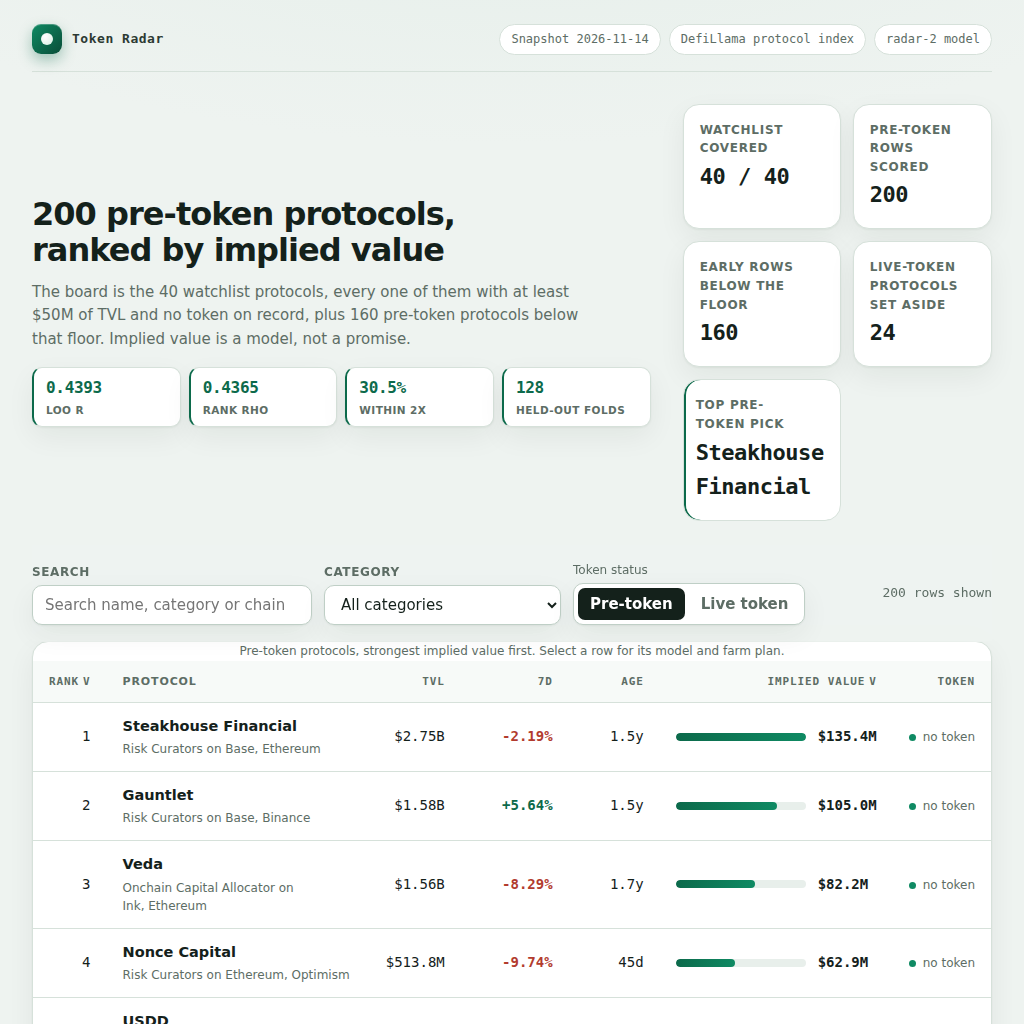
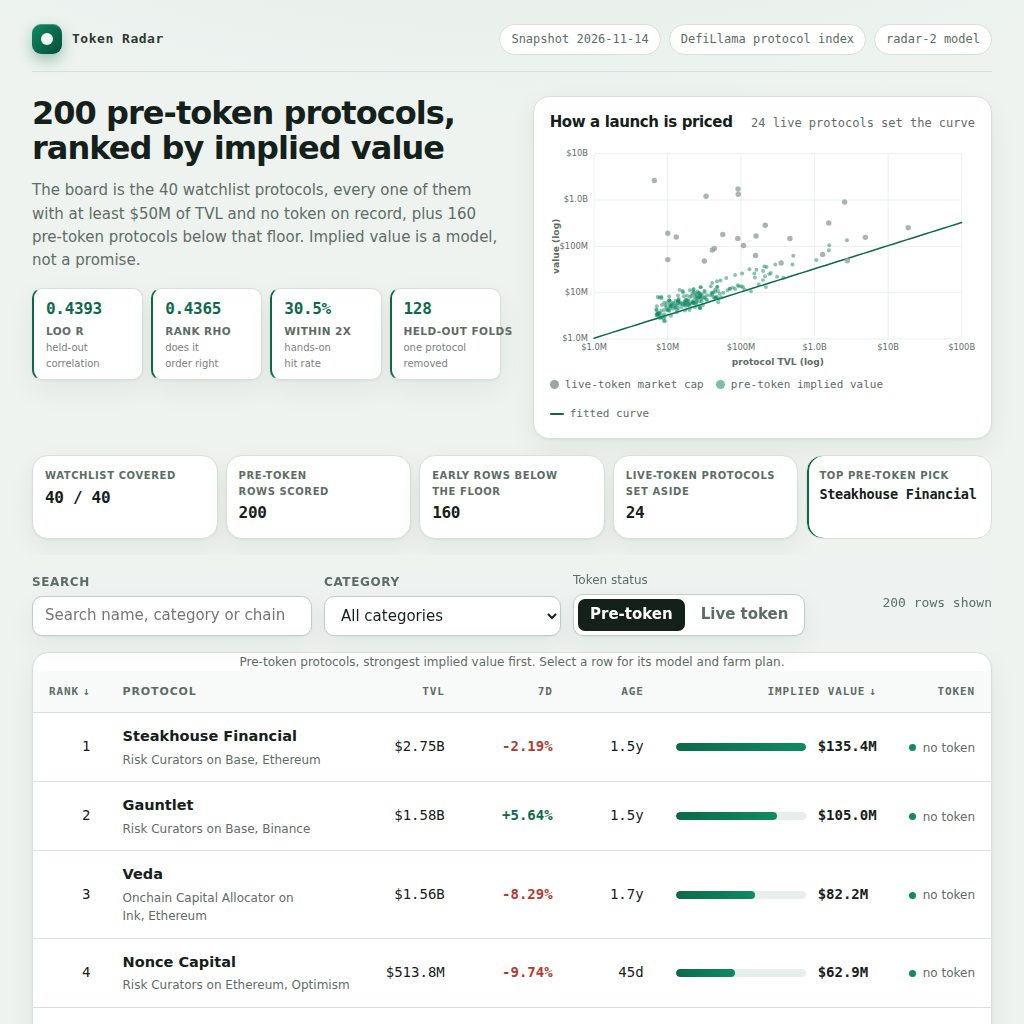
dashboard: lead with the pricing chart, the way every top-ten entry does
The board was the first thing on the page, so the judged image was a
table with no argument in it. All twenty leaders open with a picture of
the model: a log-log scatter of the calibration set with the fitted
curve and the implied values on the same axes. That chart now sits in
the hero beside the headline, drawn as inline SVG with no network, and
carries a legend naming the three series.

The stat tiles gained a plain-language gloss, because 0.4393 means
nothing to a reader who has not been told it is a held-out correlation.
The five KPI cards became one strip under the chart, and sort headers
use real arrows instead of a literal v.

diff --git a/dashboard/app.js b/dashboard/app.js
@@ -127,24 +127,33 @@
   function lede() {
     var v = DATA.validation;
     var proof = v ? el('div', { class: 'proof' },
-      el('span', { class: 'proof-item' }, el('b', { text: v.loo_r }), el('span', { text: 'LOO r' })),
-      el('span', { class: 'proof-item' }, el('b', { text: v.loo_rho }), el('span', { text: 'rank rho' })),
-      el('span', { class: 'proof-item' }, el('b', { text: v.within_2x + '%' }), el('span', { text: 'within 2x' })),
-      el('span', { class: 'proof-item' }, el('b', { text: '128' }), el('span', { text: 'held-out folds' }))
+      el('span', { class: 'proof-item' }, el('b', { text: v.loo_r }), el('span', { text: 'LOO r' }), el('i', { text: 'held-out correlation' })),
+      el('span', { class: 'proof-item' }, el('b', { text: v.loo_rho }), el('span', { text: 'rank rho' }), el('i', { text: 'does it order right' })),
+      el('span', { class: 'proof-item' }, el('b', { text: v.within_2x + '%' }), el('span', { text: 'within 2x' }), el('i', { text: 'hands-on hit rate' })),
+      el('span', { class: 'proof-item' }, el('b', { text: '128' }), el('span', { text: 'held-out folds' }), el('i', { text: 'one protocol removed' }))
     ) : null;
     return el('section', { class: 'lede' },
-      el('div', null,
+      el('div', { class: 'lede-copy' },
         el('h1', { text: DATA.board_size + ' pre-token protocols, ranked by implied value' }),
         el('p', { text: 'The board is the ' + DATA.watchlist_size + ' watchlist protocols, every one of them with at least $' + Math.round(DATA.floor_usd / 1e6) + 'M of TVL and no token on record, plus ' + DATA.early_size + ' pre-token protocols below that floor. Implied value is a model, not a promise.' }),
         proof
       ),
-      el('div', { class: 'facts' },
+      el('div', { class: 'lede-chart' }, pricingChart() || el('div', { class: 'facts' },
         el('div', { class: 'fact' }, el('span', { text: 'Watchlist covered' }), el('b', { text: DATA.watchlist_size + ' / ' + DATA.watchlist_size })),
         el('div', { class: 'fact' }, el('span', { text: 'Pre-token rows scored' }), el('b', { text: String(DATA.board_size) })),
         el('div', { class: 'fact' }, el('span', { text: 'Early rows below the floor' }), el('b', { text: String(DATA.early_size) })),
-        el('div', { class: 'fact' }, el('span', { text: 'Live-token protocols set aside' }), el('b', { text: String(DATA.live_size) })),
-        el('div', { class: 'fact fact-featured' }, el('span', { text: 'Top pre-token pick' }), el('b', { text: DATA.rows.length ? DATA.rows[0].name : 'n/a' }))
-      )
+        el('div', { class: 'fact' }, el('span', { text: 'Live-token protocols set aside' }), el('b', { text: String(DATA.live_size) }))
+      ))
+    );
+  }
+
+  function factStrip() {
+    return el('section', { class: 'fact-strip' },
+      el('div', { class: 'fact' }, el('span', { text: 'Watchlist covered' }), el('b', { text: DATA.watchlist_size + ' / ' + DATA.watchlist_size })),
+      el('div', { class: 'fact' }, el('span', { text: 'Pre-token rows scored' }), el('b', { text: String(DATA.board_size) })),
+      el('div', { class: 'fact' }, el('span', { text: 'Early rows below the floor' }), el('b', { text: String(DATA.early_size) })),
+      el('div', { class: 'fact' }, el('span', { text: 'Live-token protocols set aside' }), el('b', { text: String(DATA.live_size) })),
+      el('div', { class: 'fact fact-featured' }, el('span', { text: 'Top pre-token pick' }), el('b', { text: DATA.rows.length ? DATA.rows[0].name : 'n/a' }))
     );
   }
 
@@ -171,7 +180,7 @@
     return el('th', { scope: 'col', class: numeric ? 'num' : null },
       el('button', { type: 'button', onclick: function () { if (state.sort === key) state.dir = -state.dir; else { state.sort = key; state.dir = -1; } render(); } },
         label,
-        state.sort === key ? el('span', { 'aria-hidden': 'true', text: state.dir < 0 ? ' v' : ' ^' }) : null
+        state.sort === key ? el('span', { 'aria-hidden': 'true', text: state.dir < 0 ? ' \u2193' : ' \u2191' }) : null
       )
     );
   }
@@ -280,6 +289,104 @@
     );
   }
 
+  // The one picture the page leads with: every live-token protocol's real market cap against its TVL
+  // (the calibration set), the fitted curve over them, and the pre-token board's implied values on the
+  // same axes. Drawn as inline SVG so the page stays static and needs no network or canvas library.
+  function pricingChart() {
+    var comps = DATA.live.filter(function (r) { return r.mcap_usd && r.tvl_usd > 0; });
+    if (comps.length < 5) return null;
+    var W = 560, H = 300, PAD_L = 58, PAD_R = 18, PAD_T = 18, PAD_B = 38;
+    var iw = W - PAD_L - PAD_R, ih = H - PAD_T - PAD_B;
+    var pts = comps.map(function (r) { return [r.tvl_usd, r.mcap_usd]; });
+    var board = DATA.rows.map(function (r) { return [r.tvl_usd, r.implied_value_usd]; });
+    var xs = pts.concat(board).map(function (p) { return Math.log10(Math.max(p[0], 1)); });
+    var ys = pts.concat(board).map(function (p) { return Math.log10(Math.max(p[1], 1)); });
+    var x0 = Math.floor(Math.min.apply(null, xs)), x1 = Math.ceil(Math.max.apply(null, xs));
+    var y0 = Math.floor(Math.min.apply(null, ys)), y1 = Math.ceil(Math.max.apply(null, ys));
+    function sx(v) { return PAD_L + ((v - x0) / (x1 - x0 || 1)) * iw; }
+    function sy(v) { return PAD_T + ih - ((v - y0) / (y1 - y0 || 1)) * ih; }
+    function usd(v) {
+      var a = Math.abs(v);
+      if (a >= 1e9) return '$' + (v / 1e9).toFixed(v >= 1e10 ? 0 : 1) + 'B';
+      if (a >= 1e6) return '$' + (v / 1e6).toFixed(v >= 1e7 ? 0 : 1) + 'M';
+      if (a >= 1e3) return '$' + Math.round(v / 1e3) + 'K';
+      return '$' + Math.round(v);
+    }
+    var m = DATA.model;
+    // the fitted line: implied = tvl * boundedMultiple, with no growth or category adjustment
+    function fitLine(tvl) {
+      var lg = m.regression_intercept + m.regression_b_tvl * Math.log10(Math.max(tvl, 1));
+      var base = Math.pow(10, lg);
+      var mult = Math.min(m.multiple_cap, Math.max(m.multiple_floor, base / Math.max(tvl, 1)));
+      return tvl * mult;
+    }
+    var SVGNS = 'http' + '://www.w3.org/2000/svg';
+    function s(tag, attrs) {
+      var n = document.createElementNS(SVGNS, tag);
+      Object.keys(attrs || {}).forEach(function (k) { n.setAttribute(k, attrs[k]); });
+      return n;
+    }
+    var svg = s('svg', { viewBox: '0 0 ' + W + ' ' + H, width: '100%', height: 'auto', role: 'img',
+      'aria-label': 'Live-token market caps against TVL, with the fitted curve and the pre-token implied values' });
+    // grid + axis ticks
+    var xi, yi, lab, tk;
+    for (xi = x0; xi <= x1; xi++) {
+      tk = s('line', { x1: sx(xi), y1: PAD_T, x2: sx(xi), y2: PAD_T + ih, stroke: '#e2ece7', 'stroke-width': 1 });
+      svg.appendChild(tk);
+      lab = s('text', { x: sx(xi), y: H - PAD_B + 15, 'text-anchor': 'middle', fill: '#5d6d65', 'font-size': 11 });
+      lab.textContent = usd(Math.pow(10, xi));
+      svg.appendChild(lab);
+    }
+    for (yi = y0; yi <= y1; yi++) {
+      svg.appendChild(s('line', { x1: PAD_L, y1: sy(yi), x2: PAD_L + iw, y2: sy(yi), stroke: '#e2ece7', 'stroke-width': 1 }));
+      lab = s('text', { x: PAD_L - 8, y: sy(yi) + 3, 'text-anchor': 'end', fill: '#5d6d65', 'font-size': 11 });
+      lab.textContent = usd(Math.pow(10, yi));
+      svg.appendChild(lab);
+    }
+    // fitted curve
+    var d = '';
+    var steps = 60;
+    for (var i = 0; i <= steps; i++) {
+      var lgx = x0 + ((x1 - x0) * i) / steps;
+      var tvl = Math.pow(10, lgx);
+      var yy = Math.log10(Math.max(fitLine(tvl), 1));
+      if (yy < y0 - 1 || yy > y1 + 1) { if (d) { d += ''; } continue; }
+      d += (d ? ' L' : 'M') + sx(lgx).toFixed(1) + ' ' + sy(yy).toFixed(1);
+    }
+    if (d) svg.appendChild(s('path', { d: d, fill: 'none', stroke: '#0c6a4b', 'stroke-width': 2, 'stroke-linecap': 'round' }));
+    // calibration points: real market caps
+    pts.forEach(function (p) {
+      svg.appendChild(s('circle', { cx: sx(Math.log10(p[0])).toFixed(1), cy: sy(Math.log10(p[1])).toFixed(1), r: 3.6,
+        fill: '#9aa8a0', opacity: 0.85 }));
+    });
+    // the board's implied values
+    board.forEach(function (p) {
+      svg.appendChild(s('circle', { cx: sx(Math.log10(p[0])).toFixed(1), cy: sy(Math.log10(p[1])).toFixed(1), r: 2.6,
+        fill: '#0f8a63', opacity: 0.5 }));
+    });
+    // axis titles
+    var xl = s('text', { x: PAD_L + iw / 2, y: H - 4, 'text-anchor': 'middle', fill: '#5d6d65', 'font-size': 12, 'font-weight': 600 });
+    xl.textContent = 'protocol TVL (log)';
+    svg.appendChild(xl);
+    var yl = s('text', { x: 12, y: PAD_T + ih / 2, 'text-anchor': 'middle', fill: '#5d6d65', 'font-size': 12, 'font-weight': 600,
+      transform: 'rotate(-90 12 ' + (PAD_T + ih / 2) + ')' });
+    yl.textContent = 'value (log)';
+    svg.appendChild(yl);
+    return el('section', { class: 'panel chart-panel' },
+      el('div', { class: 'chart-head' },
+        el('h2', { text: 'How a launch is priced' }),
+        el('span', { class: 'chart-note', text: comps.length + ' live protocols set the curve' })
+      ),
+      svg,
+      el('div', { class: 'legend' },
+        el('span', { class: 'legend-item' }, el('i', { class: 'sw sw-comp' }), 'live-token market cap'),
+        el('span', { class: 'legend-item' }, el('i', { class: 'sw sw-board' }), 'pre-token implied value'),
+        el('span', { class: 'legend-item' }, el('i', { class: 'sw sw-line' }), 'fitted curve')
+      ),
+      el('p', { class: 'sub chart-caption', text: 'Grey: the ' + comps.length + ' live-token protocols, whose market caps are recorded facts. Green: the board\'s implied values. Line: the fitted log10 curve, its multiple clamped to the range the market has paid. The gap between a green point and the line is the category, chain and growth terms at work. ' + (DATA.validation ? 'Out of sample, ' + DATA.validation.within_3x + '% of held-out protocols land within 3x.' : '') })
+    );
+  }
+
   var dialog = el('dialog', { class: 'detail', id: 'detail', 'aria-labelledby': 'detail-title' });
   dialog.addEventListener('close', function () { state.selected = null; writeHash(); });
 
@@ -333,6 +440,7 @@
     var shell = el('div', { class: 'shell' });
     shell.appendChild(header());
     shell.appendChild(lede());
+    shell.appendChild(factStrip());
     shell.appendChild(controls());
     shell.appendChild(state.tab === 'pre-token' ? boardTable() : liveTable());
     if (state.tab === 'pre-token') {

diff --git a/dashboard/app.css b/dashboard/app.css
@@ -77,7 +77,15 @@ a:hover { text-decoration: underline; }
   background: var(--surface); border: 1px solid var(--border); padding: 5px 11px;
   border-radius: 999px; white-space: nowrap; font-family: var(--font-num); font-size: 12px;
 }
-.lede { display: grid; grid-template-columns: minmax(0, 1.4fr) minmax(300px, 0.7fr); gap: var(--step-6); padding: var(--step-6) 0 var(--step-5); align-items: center; }
+.lede { display: grid; grid-template-columns: minmax(0, 1fr) minmax(0, 0.98fr); gap: var(--step-6); padding: var(--step-5) 0 var(--step-4); align-items: start; }
+.lede-chart .chart-panel { margin-top: 0; padding: var(--step-4); gap: var(--step-2); }
+.lede-chart .chart-caption { display: none; }
+.lede-chart .chart-head h2 { font-size: 15px; }
+.fact-strip { display: grid; grid-template-columns: repeat(5, minmax(0, 1fr)); gap: var(--step-2); padding-bottom: var(--step-4); }
+.fact-strip .fact { padding: var(--step-3) var(--step-3); }
+.fact-strip .fact b { font-size: 16px; }
+.fact-strip .fact span { font-size: 10px; }
+.fact-strip .fact-featured b { font-size: 13.5px; line-height: 1.25; overflow-wrap: anywhere; }
 .lede h1 .accent { color: var(--accent); }
 .lede p { color: var(--muted); max-width: 60ch; margin-top: var(--step-3); }
 .proof { display: grid; grid-template-columns: repeat(4, minmax(0, 1fr)); gap: var(--step-2); margin-top: var(--step-4); }
@@ -88,6 +96,7 @@ a:hover { text-decoration: underline; }
 }
 .proof-item b { font-family: var(--font-num); font-size: 16px; font-weight: 650; color: var(--accent); letter-spacing: -0.02em; }
 .proof-item span { font-size: 10.5px; color: var(--muted); text-transform: uppercase; letter-spacing: 0.04em; font-weight: 600; white-space: nowrap; }
+.proof-item i { font-style: normal; font-size: 10px; color: var(--muted); opacity: 0.85; }
 .facts { display: grid; grid-template-columns: 1fr 1fr; gap: var(--step-3); }
 .fact {
   background: var(--surface); border: 1px solid var(--border); border-radius: var(--radius-panel);
@@ -145,6 +154,17 @@ th.num button { justify-content: flex-end; }
 .status::before { content: ""; width: 7px; height: 7px; border-radius: 50%; background: var(--accent-2); }
 
 .model { margin-top: var(--step-4); padding: var(--step-5); display: grid; gap: var(--step-3); }
+.chart-panel { margin-top: var(--step-4); padding: var(--step-5); display: grid; gap: var(--step-3); }
+.chart-head { display: flex; align-items: baseline; justify-content: space-between; gap: var(--step-4); flex-wrap: wrap; }
+.chart-note { color: var(--muted); font-size: 12px; font-family: var(--font-num); }
+.chart-panel svg { display: block; width: 100%; height: auto; }
+.chart-caption { max-width: 78ch; }
+.legend { display: flex; flex-wrap: wrap; gap: var(--step-3); align-items: center; }
+.legend-item { display: inline-flex; align-items: center; gap: 6px; color: var(--muted); font-size: 11px; font-family: var(--font-num); white-space: nowrap; }
+.legend .sw { width: 9px; height: 9px; border-radius: 50%; display: inline-block; flex: none; }
+.legend .sw-comp { background: #9aa8a0; }
+.legend .sw-board { background: #0f8a63; opacity: 0.55; }
+.legend .sw-line { width: 14px; height: 2px; border-radius: 1px; background: #0c6a4b; }
 .model h2 { display: flex; align-items: center; gap: 10px; }
 .model h2::before { content: "i"; display: inline-grid; place-items: center; width: 20px; height: 20px; border-radius: 50%; background: var(--accent); color: #fff; font: 700 13px/1 var(--font-num); flex: none; }
 .formula {
